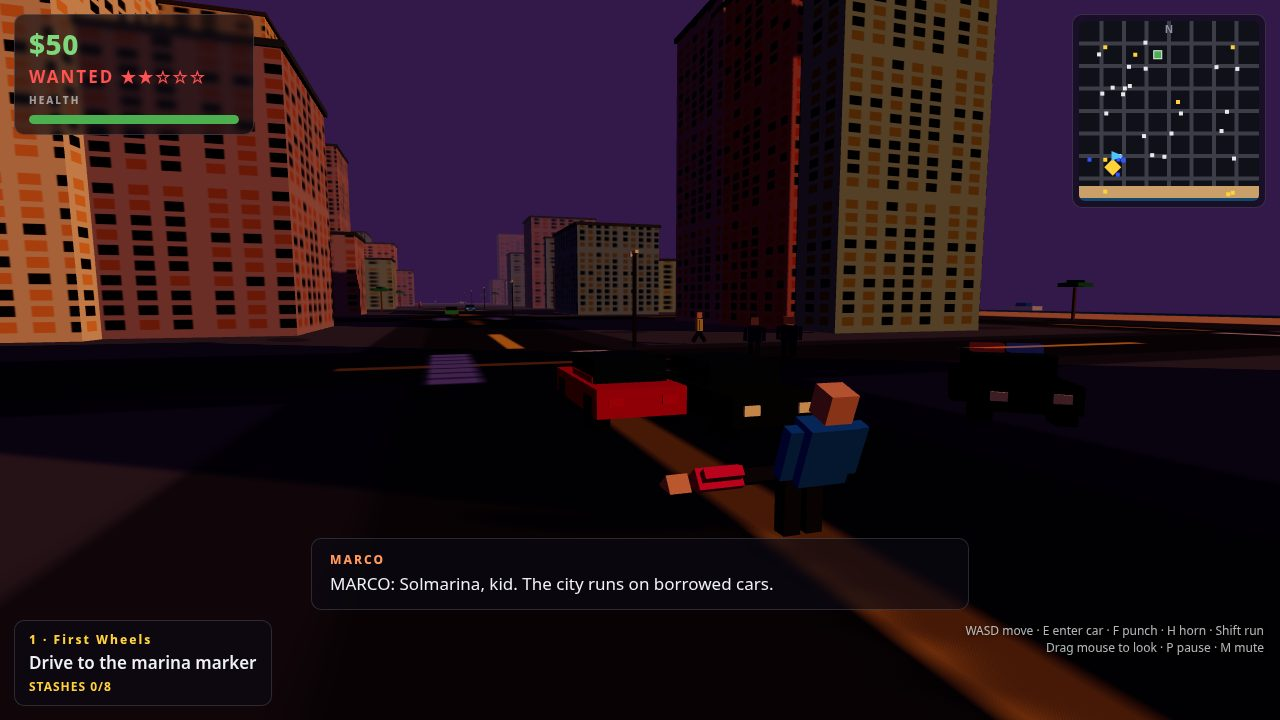
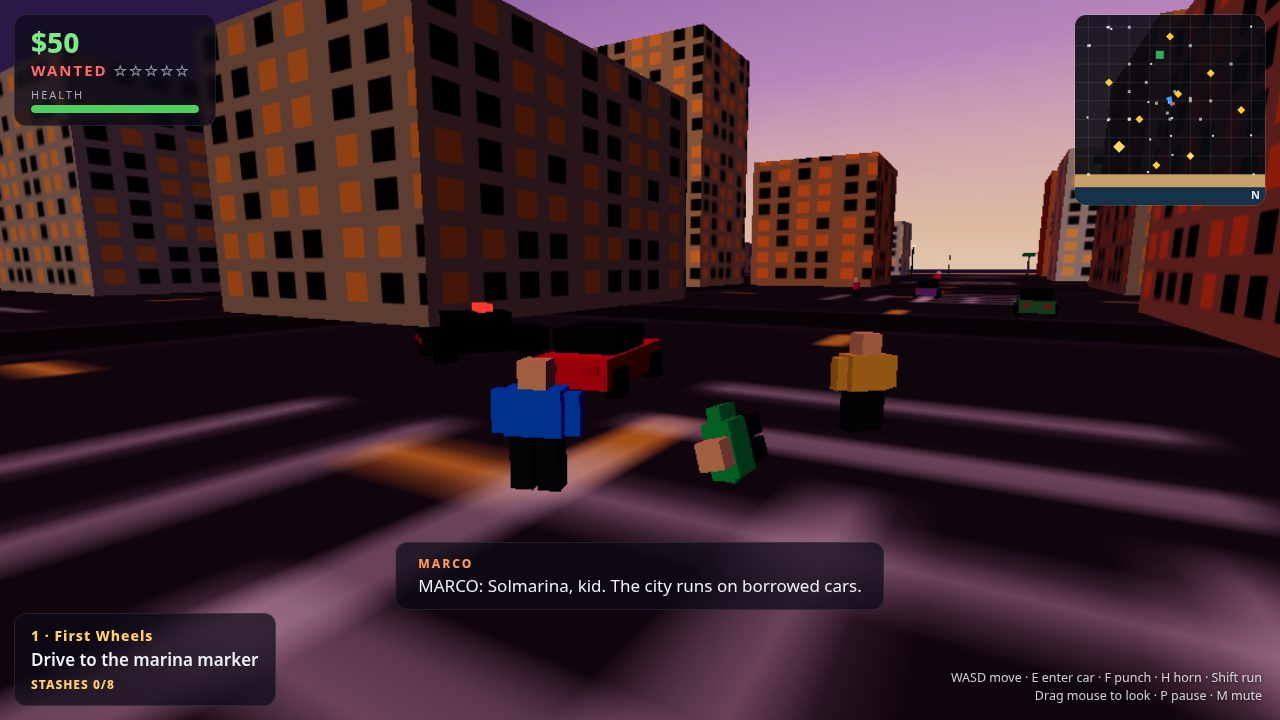
Sunset Heat v1.2: dossier reframe for round 3 — closer cameras, denser staging, brighter dusk
- cover: low close camera behind the red car, taxi + white car ahead
  in the lane, no more empty road or blown-out sun
- chase: two cruisers in a pincer around the player, corridor cleared
  of random traffic, camera close and low
- mission: the punched pedestrian now lies visible in the open, cop
  closer, witness on the sidewalk
- start: low skyline shot toward the sunset (old shot was a stale
  top-down frame with the pre-rewrite tagline)
- lighting: hemisphere 1.1->1.3, south fill 0.9->1.15, exposure
  1.05->1.12 — subjects read at contact-sheet size
- play-test 28/28 PASS; dossier 608,325 bytes, deterministic build

diff --git a/game/src/shots.js b/game/src/shots.js
@@ -38,7 +38,11 @@ function nearestParked(state) {
 }
 
 /** The cover: mission 2 at full speed, the red car running north up the
- *  beach road toward the sunset, 108 km/h on the clock, 87 seconds left. */
+ *  beach road toward the sunset, 108 km/h on the clock, 87 seconds left.
+ *  A yellow taxi and a white car ahead give the road life; the camera
+ *  sits low and close (v1/v2 looked east, where half the sky is void
+ *  because the sunset band only covers the north — the northbound frame
+ *  is the one with the sun and the skyline in it). */
 function stageCover(world, renderer) {
   const state = world.state;
   state.missionIndex = 1;
@@ -49,38 +53,98 @@ function stageCover(world, renderer) {
   const car = state.player.car;
   car.color = 0xd21f2b;
   car.speed = 30;
-  // Clear the camera corridor: any other car between the lens and the
-  // red car would hide it, so park the rest on the side streets.
+  // A taxi ahead in the lane and one car further on; the rest park on
+  // the side streets, clear of the corridor.
+  const parkSpots = [];
+  for (const z of [-180, -120, -60, 0, 60, 120, 180]) {
+    for (const x of [-120, 120]) parkSpots.push([x, z]);
+  }
+  for (const z of [-180, -120, -60, 0]) {
+    for (const x of [-180, 180]) parkSpots.push([x, z]);
+  }
+  let placed = 0;
   let lane = 0;
   for (const other of state.cars) {
     if (other === car) continue;
+    if (placed === 0) {
+      other.kind = 'taxi';
+      other.color = 0xf2c230;
+      other.x = 0;
+      other.z = 78;
+      other.yaw = 0;
+      other.speed = 0;
+      placed += 1;
+    } else if (placed === 1) {
+      other.color = 0xe8e4da;
+      other.x = 3;
+      other.z = 96;
+      other.yaw = 0;
+      other.speed = 0;
+      placed += 1;
+    } else {
+      const spot = parkSpots[lane % parkSpots.length];
+      other.x = spot[0];
+      other.z = spot[1];
+      other.yaw = 0;
+      other.speed = 0;
+      lane += 1;
+    }
+  }
+  // Pedestrians out of the lens corridor: in v3 one stood beside the
+  // camera and his shirt filled the bottom-left corner.
+  for (const ped of state.peds) {
+    if (Math.abs(ped.x) < 8 && ped.z > 40 && ped.z < 120) ped.x = ped.x < 0 ? -14 : 14;
+  }
+  renderer.setShotCam([0, 3.2, 51], [0, 2, 82]);
+  return { screen: SCREEN_PLAY };
+}
+
+/** The chase: mission 1, three stars, on foot with TWO cruisers right
+ *  behind — Marco's line still on screen, a pedestrian fleeing ahead.
+ *  Shot from the south side, close and low, so the player and both
+ *  light bars fill the frame instead of a long empty street. */
+function stageChase(world, renderer) {
+  const state = world.state;
+  state.missionIndex = 0;
+  state.missionStage = 0;
+  state.wanted = 3;
+  world.debug.placePlayer(0, 0, Math.PI / 2);
+  world.debug.spawnCops(2);
+  const cops = state.cars.filter((car) => car.kind === 'cop');
+  if (cops[0]) {
+    cops[0].x = -8;
+    cops[0].z = 2;
+    cops[0].yaw = Math.PI / 2;
+    cops[0].speed = 0;
+  }
+  if (cops[1]) {
+    // Ahead-east, cutting the player off from the front: a pincer, not
+    // two cruisers stacked on one bearing (v2 hid the second behind the
+    // first).
+    cops[1].x = 6;
+    cops[1].z = 4;
+    cops[1].yaw = -Math.PI / 2;
+    cops[1].speed = 0;
+  }
+  // Clear the corridor: random traffic in the frame would read as a
+  // third, unexplained car (in v1 a red traffic car sat centre-left).
+  // Park them spread over the south side streets, off-frame.
+  let lane = 0;
+  for (const other of state.cars) {
+    if (other.kind === 'cop') continue;
     other.x = lane % 2 === 0 ? -120 : 120;
     other.z = -180 + Math.floor(lane / 2) * 60;
     other.yaw = 0;
     other.speed = 0;
     lane += 1;
   }
-  renderer.setShotCam([0, 5, 50], [0, 2, 90]);
-  return { screen: SCREEN_PLAY };
-}
-
-/** The chase: mission 1, three stars, on foot with a cruiser right
- *  behind — Marco's line still on screen, the city ahead. */
-function stageChase(world, renderer) {
-  const state = world.state;
-  state.missionIndex = 0;
-  state.missionStage = 0;
-  state.wanted = 3;
-  world.debug.placePlayer(0, 10, 0);
-  world.debug.spawnCops(1);
-  const cop = nearestCop(state);
-  if (cop) {
-    cop.x = -3.5;
-    cop.z = 3.5;
-    cop.yaw = 0.1;
-    cop.speed = 0;
+  const ped = state.peds[0];
+  if (ped) {
+    ped.x = 7;
+    ped.z = -1;
+    ped.yaw = Math.PI / 2;
   }
-  renderer.setShotCam([0, 4.5, -1], [0, 1.4, 14]);
+  renderer.setShotCam([0.5, 2.6, -8.5], [-1, 1.3, 0.5]);
   return { screen: SCREEN_PLAY };
 }
 
@@ -94,33 +158,45 @@ function stageMission(world, renderer) {
   world.debug.placePlayer(0, 0, 0.35);
   const parked = nearestParked(state);
   if (parked) {
-    parked.x = 2.5;
+    parked.x = 3.5;
     parked.z = 7;
     parked.yaw = 0.2;
     parked.color = 0xd21f2b;
   }
+  // The punched pedestrian lies where the camera can see him: front-left
+  // of the player, clear of the red car (in v1 the player hid him).
   const ped = state.peds[0];
   if (ped) {
-    ped.x = 1.5;
-    ped.z = 4;
+    ped.x = -2.2;
+    ped.z = 3;
     ped.mode = 'down';
     ped.modeTimer = 6;
+  }
+  // A second pedestrian watches from the sidewalk.
+  const witness = state.peds[1];
+  if (witness) {
+    witness.x = -3.5;
+    witness.z = 5.5;
+    witness.yaw = 0.8;
   }
   world.debug.spawnCops(1);
   const cop = nearestCop(state);
   if (cop) {
-    cop.x = 14;
-    cop.z = 12;
+    cop.x = 10;
+    cop.z = 9;
     cop.yaw = -0.6;
     cop.speed = 0;
   }
-  renderer.setShotCam([-7, 5, -9], [2, 1.2, 9]);
+  renderer.setShotCam([-5.5, 3.2, -6.5], [1.5, 1.0, 5.5]);
   return { screen: SCREEN_PLAY };
 }
 
-/** The title over the dusk skyline. */
+/** The title over the dusk skyline: low over the south street, looking
+ *  north across the facades toward the sunset band — not the old high
+ *  top-down orbit, which read as a map. The live title screen still
+ *  uses the slow orbit; this fixed camera is for the shot only. */
 function stageStart(world, renderer) {
-  renderer.setShotCam([70, 170, -170], [0, 0, 70]);
+  renderer.setShotCam([60, 55, -140], [0, 20, 80]);
   return { screen: SCREEN_TITLE };
 }
 

diff --git a/game/src/render.js b/game/src/render.js
@@ -121,13 +121,13 @@ function makeSkyBand() {
 
 /** The lights: sky bounce, the low sun, and a warm fill from the south. */
 function addLights(scene) {
-  scene.add(new THREE.HemisphereLight(COLORS.hemiSky, COLORS.hemiGround, 1.1));
+  scene.add(new THREE.HemisphereLight(COLORS.hemiSky, COLORS.hemiGround, 1.3));
   const sunLight = new THREE.DirectionalLight(COLORS.sunLight, 1.25);
   sunLight.position.set(150, 200, 300);
   scene.add(sunLight);
   // A warm fill from the south, so the faces turned toward the camera
   // (car rears, the player's back) never go black at dusk.
-  const fillLight = new THREE.DirectionalLight(0xffe0c0, 0.9);
+  const fillLight = new THREE.DirectionalLight(0xffe0c0, 1.15);
   fillLight.position.set(-60, 140, -260);
   scene.add(fillLight);
 }
@@ -431,7 +431,7 @@ export function createRenderer(canvas, layout, random) {
   const renderer = new THREE.WebGLRenderer({ canvas, antialias: false, powerPreference: 'low-power' });
   if ('outputColorSpace' in renderer) renderer.outputColorSpace = THREE.SRGBColorSpace;
   if (THREE.ACESFilmicToneMapping !== undefined) renderer.toneMapping = THREE.ACESFilmicToneMapping;
-  renderer.toneMappingExposure = 1.05;
+  renderer.toneMappingExposure = 1.12;
 
   const scene = new THREE.Scene();
   scene.background = new THREE.Color(COLORS.sky);

diff --git a/README.md b/README.md
@@ -75,8 +75,9 @@ Chrome and plays from its own files, with three.js vendored under
 
 `shots.json` lists the four shots and the `?shot=` scene behind each
 (`cover`, `chase`, `mission`, `start`, all `&seed=7`): the red car running
-for the beach at full speed, the foot chase with a cruiser behind, the
-punch beside the red car, and the title over the dusk skyline.
+north up the beach road at 108 km/h with a taxi ahead, the foot chase
+between two cruisers closing in, the punch beside the red car with a
+cruiser closing in, and the title over the dusk skyline.
 
 ## Hand in
 
